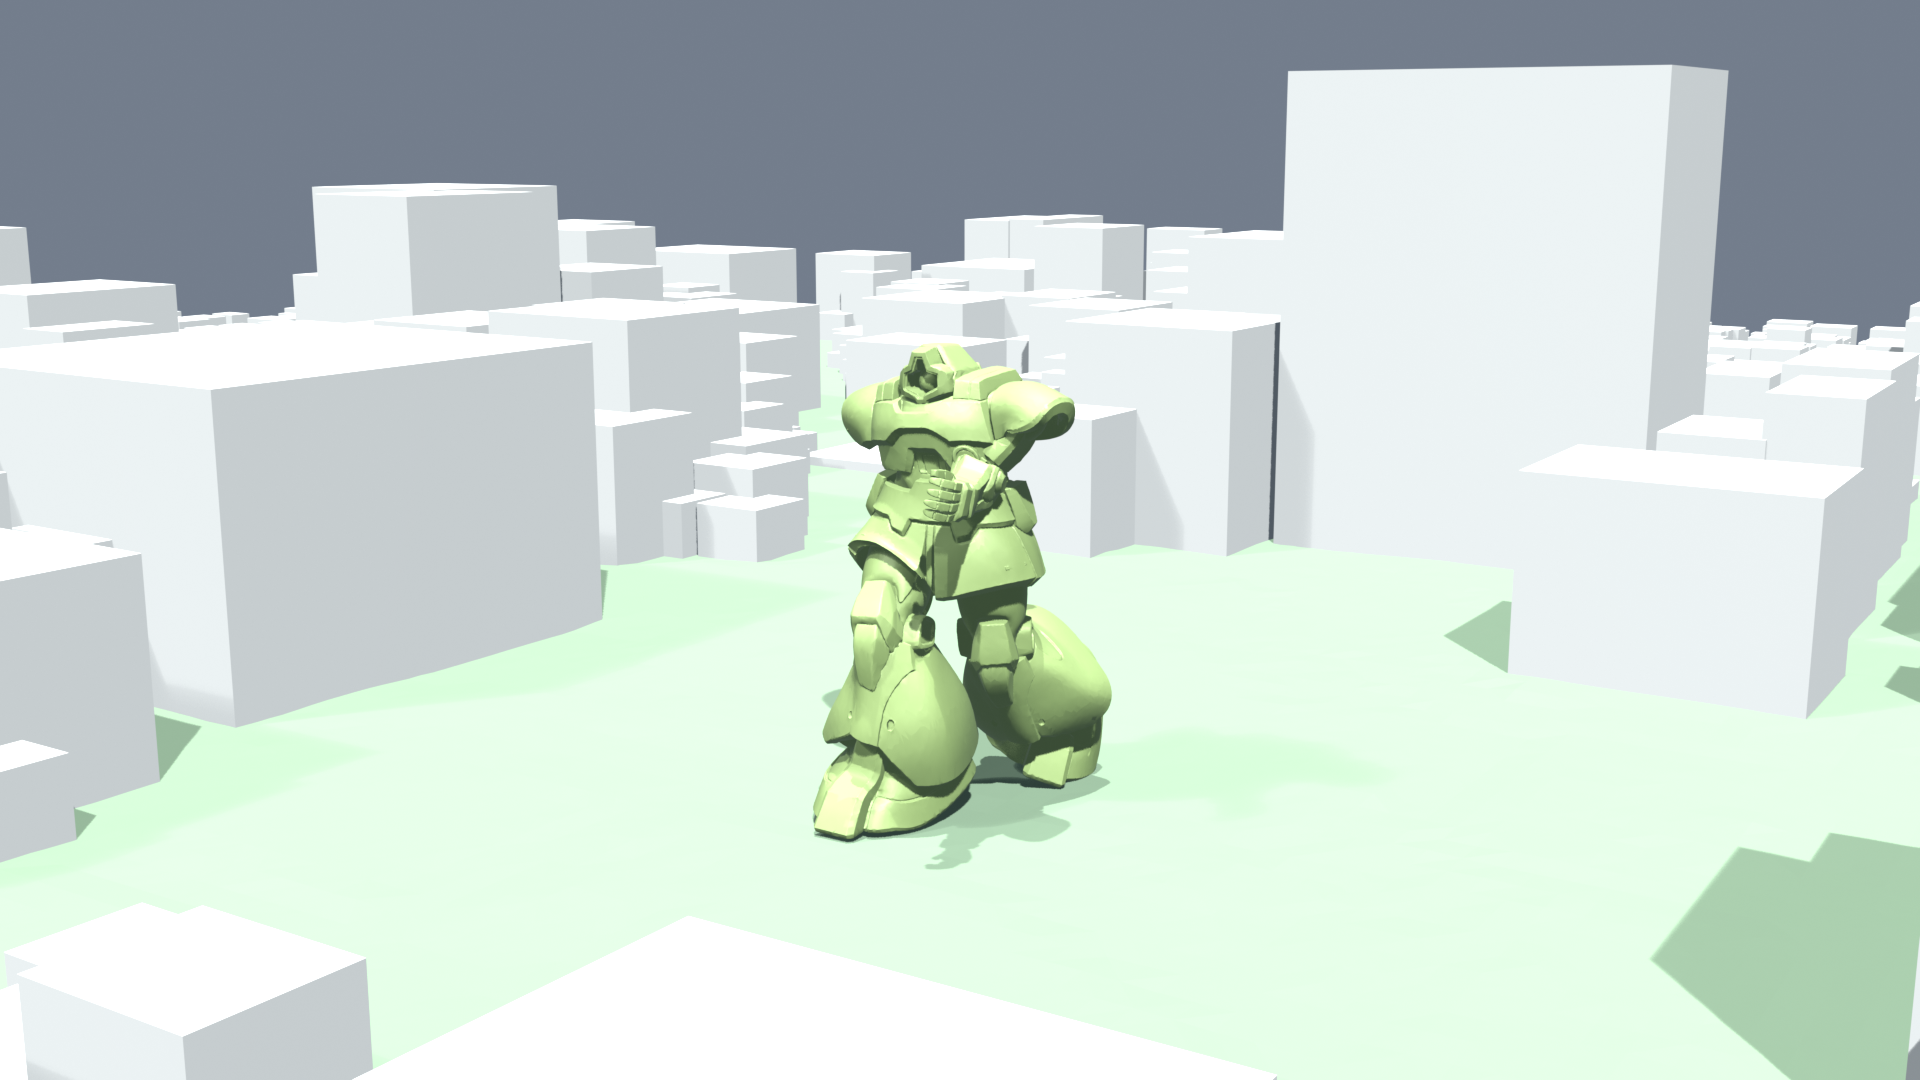
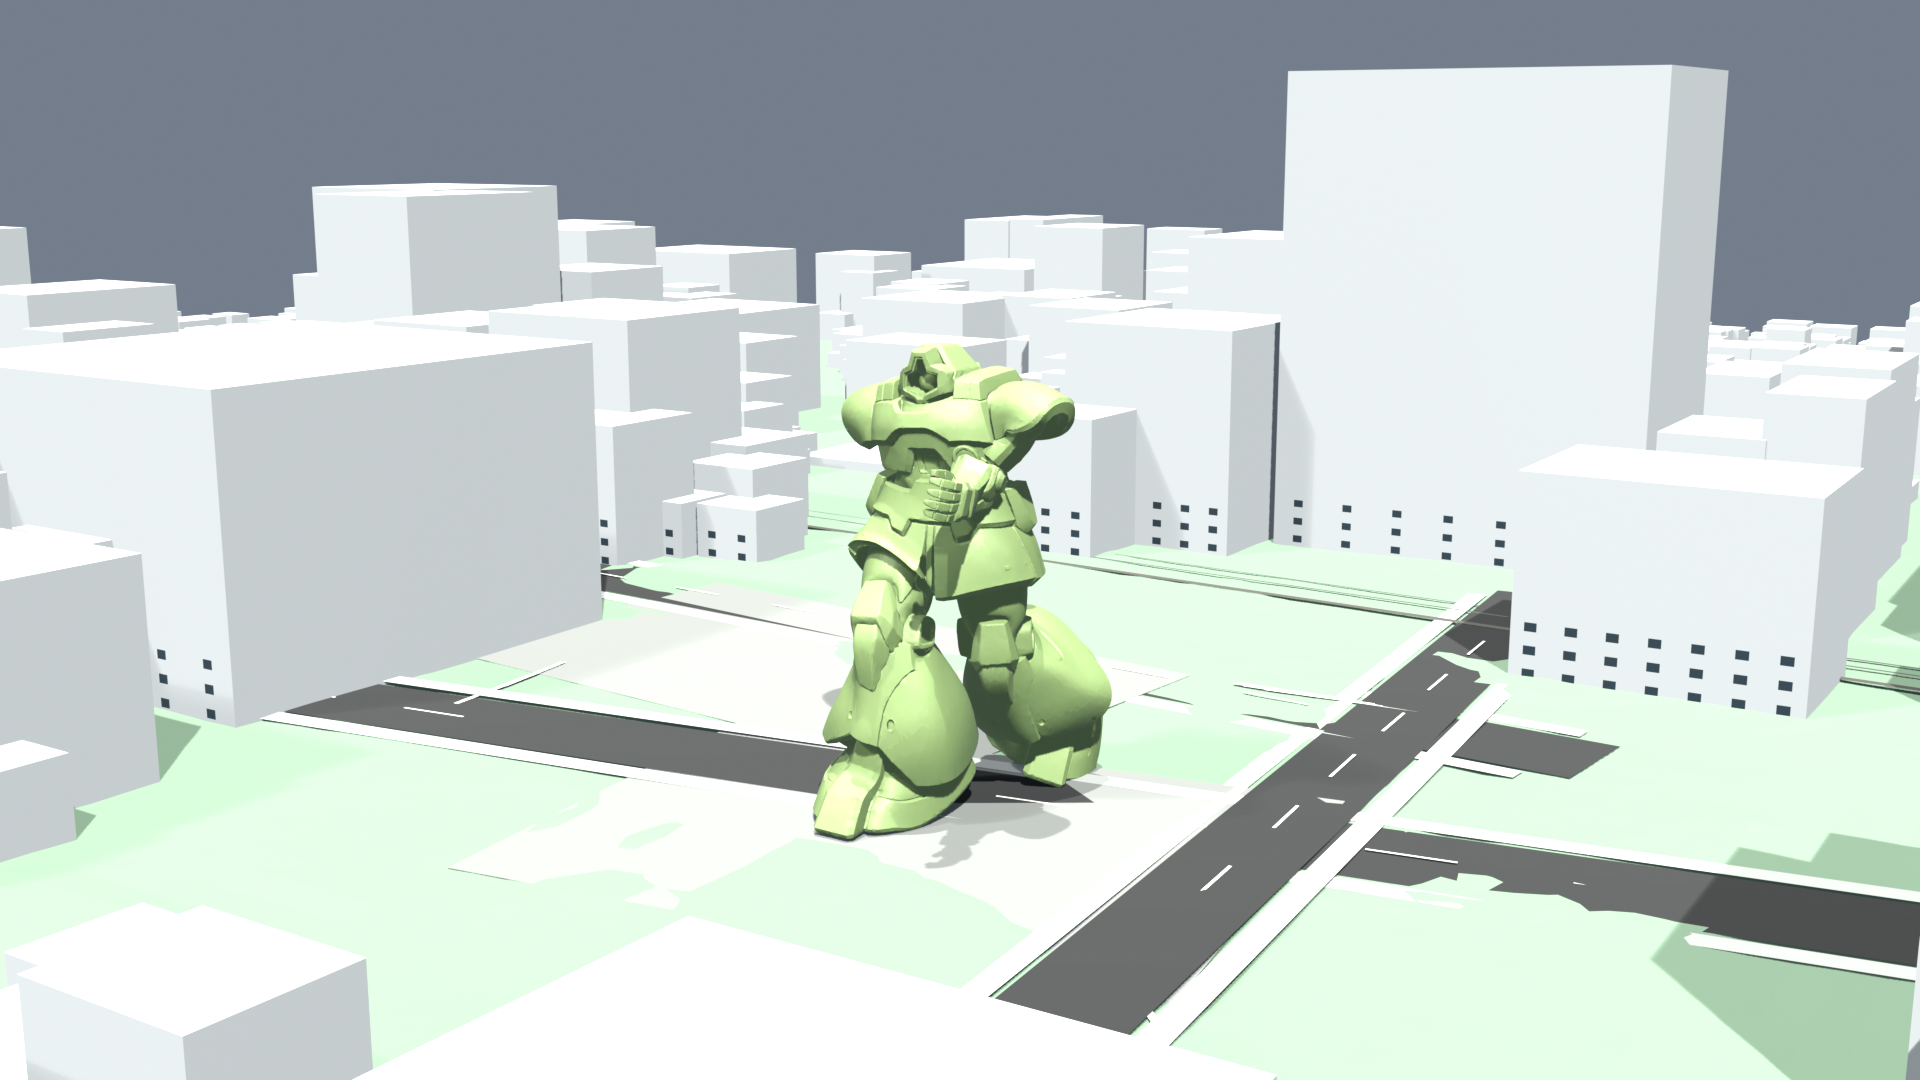
feat: add procedural Hon-Atsugi street detail

diff --git a/projects/AtsugiMechaCity/render_hon_atsugi_station_from_plateau.py b/projects/AtsugiMechaCity/render_hon_atsugi_station_from_plateau.py
@@ -399,6 +399,211 @@ def add_building_box(name, box, material):
     return add_mesh_object(name, vertices, faces, material)
 
 
+def rotated_rect_points(center, length, width, angle_rad):
+    cx, cy = center
+    along = mathutils.Vector((math.cos(angle_rad), math.sin(angle_rad)))
+    across = mathutils.Vector((-math.sin(angle_rad), math.cos(angle_rad)))
+    half_l = length * 0.5
+    half_w = width * 0.5
+    return [
+        (cx - along.x * half_l - across.x * half_w, cy - along.y * half_l - across.y * half_w),
+        (cx + along.x * half_l - across.x * half_w, cy + along.y * half_l - across.y * half_w),
+        (cx + along.x * half_l + across.x * half_w, cy + along.y * half_l + across.y * half_w),
+        (cx - along.x * half_l + across.x * half_w, cy - along.y * half_l + across.y * half_w),
+    ]
+
+
+def add_rect_mesh(name, points, terrain_points, material, z_offset=0.2):
+    vertices = []
+    for x, y in points:
+        z, _dist = nearest_z(terrain_points, x, y)
+        vertices.append((x, y, z + z_offset))
+    return add_mesh_object(name, vertices, [(0, 1, 2, 3)], material)
+
+
+def add_rotated_rect(name, center, length, width, angle_rad, terrain_points, material, z_offset=0.2):
+    return add_rect_mesh(
+        name,
+        rotated_rect_points(center, length, width, angle_rad),
+        terrain_points,
+        material,
+        z_offset,
+    )
+
+
+def add_dashed_lane(name, center, length, angle_rad, terrain_points, material, z_offset=0.32):
+    cx, cy = center
+    along = mathutils.Vector((math.cos(angle_rad), math.sin(angle_rad)))
+    dash_length = 9.5
+    gap = 11.5
+    count = 0
+    cursor = -length * 0.5 + dash_length * 0.5
+    while cursor < length * 0.5:
+        dash_center = (cx + along.x * cursor, cy + along.y * cursor)
+        add_rotated_rect(
+            f"{name}_{count:02d}",
+            dash_center,
+            dash_length,
+            0.38,
+            angle_rad,
+            terrain_points,
+            material,
+            z_offset,
+        )
+        count += 1
+        cursor += dash_length + gap
+    return count
+
+
+def add_crosswalk(name, center, stripe_count, angle_rad, terrain_points, material, z_offset=0.34):
+    cx, cy = center
+    across = mathutils.Vector((-math.sin(angle_rad), math.cos(angle_rad)))
+    count = 0
+    spacing = 1.45
+    start = -(stripe_count - 1) * spacing * 0.5
+    for index in range(stripe_count):
+        stripe_center = (cx + across.x * (start + index * spacing), cy + across.y * (start + index * spacing))
+        add_rotated_rect(
+            f"{name}_{index:02d}",
+            stripe_center,
+            13.5,
+            0.72,
+            angle_rad + math.pi * 0.5,
+            terrain_points,
+            material,
+            z_offset,
+        )
+        count += 1
+    return count
+
+
+def add_station_detail_layers(terrain_points, station_z, mecha_z, mats):
+    stats = {"roads": 0, "sidewalks": 0, "lane_dashes": 0, "crosswalk_stripes": 0, "rail_strips": 0, "plaza_surfaces": 0}
+
+    plaza_specs = [
+        ((10, -52), 92, 54, math.radians(-6)),
+        ((62, -102), 78, 58, math.radians(8)),
+    ]
+    for index, spec in enumerate(plaza_specs):
+        add_rotated_rect(f"HonAtsugi_StationPlaza_{index:02d}", *spec, terrain_points, mats["plaza"], 0.18)
+        stats["plaza_surfaces"] += 1
+
+    road_specs = [
+        ((28, -92), 292, 15.5, math.radians(8)),
+        ((92, -62), 218, 13.0, math.radians(95)),
+        ((-18, -28), 268, 17.0, math.radians(-4)),
+        ((132, -146), 210, 12.5, math.radians(42)),
+    ]
+    for index, (center, length, width, angle) in enumerate(road_specs):
+        add_rotated_rect(f"HonAtsugi_EnhancedRoad_{index:02d}", center, length, width, angle, terrain_points, mats["road"], 0.24)
+        stats["roads"] += 1
+        along = mathutils.Vector((math.cos(angle), math.sin(angle)))
+        across = mathutils.Vector((-math.sin(angle), math.cos(angle)))
+        for side in (-1, 1):
+            sidewalk_center = (
+                center[0] + across.x * side * (width * 0.5 + 2.2),
+                center[1] + across.y * side * (width * 0.5 + 2.2),
+            )
+            add_rotated_rect(
+                f"HonAtsugi_Sidewalk_{index:02d}_{side:+d}",
+                sidewalk_center,
+                length * 0.96,
+                3.0,
+                angle,
+                terrain_points,
+                mats["sidewalk"],
+                0.27,
+            )
+            stats["sidewalks"] += 1
+        stats["lane_dashes"] += add_dashed_lane(
+            f"HonAtsugi_LaneDash_{index:02d}",
+            (center[0] + along.x * 2.0, center[1] + along.y * 2.0),
+            length * 0.78,
+            angle,
+            terrain_points,
+            mats["line"],
+        )
+
+    crosswalks = [
+        ((-18, -82), 8, math.radians(8)),
+        ((78, -30), 9, math.radians(95)),
+        ((98, -122), 8, math.radians(42)),
+    ]
+    for index, spec in enumerate(crosswalks):
+        stats["crosswalk_stripes"] += add_crosswalk(f"HonAtsugi_Crosswalk_{index:02d}", *spec, terrain_points, mats["line"])
+
+    rail_specs = [
+        ((-18, 34), 360, 0.62, math.radians(-3)),
+        ((-18, 39), 360, 0.62, math.radians(-3)),
+        ((-18, 26), 360, 1.55, math.radians(-3)),
+    ]
+    for index, (center, length, width, angle) in enumerate(rail_specs):
+        mat = mats["rail"] if index < 2 else mats["rail_bed"]
+        add_rotated_rect(f"HonAtsugi_Rail_{index:02d}", center, length, width, angle, terrain_points, mat, 0.3)
+        stats["rail_strips"] += 1
+
+    return stats
+
+
+def add_facade_details(building_boxes, mats):
+    window_vertices = []
+    window_faces = []
+    sign_vertices = []
+    sign_faces = []
+    sorted_boxes = sorted(
+        building_boxes,
+        key=lambda box: math.hypot(((box[0] + box[1]) * 0.5) - MECHA_OFFSET[0], ((box[2] + box[3]) * 0.5) - MECHA_OFFSET[1]),
+    )
+    for box_index, box in enumerate(sorted_boxes[:170]):
+        min_x, max_x, min_y, max_y, min_z, max_z = box
+        width_x = max_x - min_x
+        width_y = max_y - min_y
+        height = max_z - min_z
+        if height < 7.0:
+            continue
+        floors = min(8, max(1, int((height - 3.0) / 3.3)))
+        if width_x >= 7.5:
+            cols = min(7, max(2, int(width_x / 5.2)))
+            for side_y, normal in ((min_y - 0.035, -1), (max_y + 0.035, 1)):
+                for floor in range(floors):
+                    z = min_z + 3.0 + floor * 3.25
+                    for col in range(cols):
+                        x = min_x + (col + 0.5) * width_x / cols
+                        w = min(1.7, width_x / cols * 0.46)
+                        h = 1.25
+                        start = len(window_vertices)
+                        window_vertices.extend([
+                            (x - w * 0.5, side_y, z - h * 0.5),
+                            (x + w * 0.5, side_y, z - h * 0.5),
+                            (x + w * 0.5, side_y, z + h * 0.5),
+                            (x - w * 0.5, side_y, z + h * 0.5),
+                        ])
+                        window_faces.append((start, start + 1, start + 2, start + 3) if normal > 0 else (start + 3, start + 2, start + 1, start))
+        if box_index < 26 and width_x >= 8.0:
+            z = min_z + min(4.2, max(2.8, height * 0.28))
+            side_y = min_y - 0.055
+            x = (min_x + max_x) * 0.5
+            w = min(5.8, width_x * 0.52)
+            h = 1.05
+            start = len(sign_vertices)
+            sign_vertices.extend([
+                (x - w * 0.5, side_y, z - h * 0.5),
+                (x + w * 0.5, side_y, z - h * 0.5),
+                (x + w * 0.5, side_y, z + h * 0.5),
+                (x - w * 0.5, side_y, z + h * 0.5),
+            ])
+            sign_faces.append((start + 3, start + 2, start + 1, start))
+
+    window_obj = add_mesh_object("HonAtsugi_Facade_Windows", window_vertices, window_faces, mats["window"]) if window_faces else None
+    sign_obj = add_mesh_object("HonAtsugi_Facade_Signs", sign_vertices, sign_faces, mats["sign"]) if sign_faces else None
+    return {
+        "window_panels": len(window_faces),
+        "sign_panels": len(sign_faces),
+        "window_object": window_obj.name if window_obj else None,
+        "sign_object": sign_obj.name if sign_obj else None,
+    }
+
+
 def box_intersects_clearance(box, center, radius):
     min_x, max_x, min_y, max_y, _min_z, _max_z = box
     closest_x = min(max(center[0], min_x), max_x)
@@ -509,6 +714,16 @@ def main():
     road_mat = make_principled_material("HonAtsugi_Road_Asphalt", (0.035, 0.036, 0.034, 1.0), 0.96)
     bldg_mat = make_principled_material("HonAtsugi_Building_Grey", (0.48, 0.50, 0.49, 1.0), 0.82)
     mecha_mat = make_principled_material("HonAtsugi_Mecha_Posed_Olive", (0.28, 0.39, 0.16, 1.0), 0.52, 0.12)
+    detail_mats = {
+        "road": make_principled_material("HonAtsugi_Enhanced_Asphalt", (0.025, 0.026, 0.025, 1.0), 0.94),
+        "sidewalk": make_principled_material("HonAtsugi_Sidewalk_Concrete", (0.42, 0.43, 0.40, 1.0), 0.9),
+        "line": make_principled_material("HonAtsugi_Road_WhiteLine", (0.88, 0.86, 0.76, 1.0), 0.62),
+        "plaza": make_principled_material("HonAtsugi_Station_Plaza_Paving", (0.22, 0.23, 0.21, 1.0), 0.86),
+        "rail": make_principled_material("HonAtsugi_Rail_Steel", (0.12, 0.12, 0.11, 1.0), 0.48, 0.35),
+        "rail_bed": make_principled_material("HonAtsugi_Rail_Bed", (0.08, 0.075, 0.065, 1.0), 0.96),
+        "window": make_principled_material("HonAtsugi_Dark_Window_Glass", (0.035, 0.055, 0.065, 1.0), 0.28, 0.05),
+        "sign": make_principled_material("HonAtsugi_Sign_Panels", (0.58, 0.08, 0.055, 1.0), 0.5),
+    }
 
     terrain = add_mesh_object("HonAtsugi_Terrain", payload["terrain_vertices"], payload["terrain_faces"], terrain_mat)
     roads = add_mesh_object("HonAtsugi_Roads", payload["road_vertices"], payload["road_faces"], road_mat)
@@ -525,6 +740,8 @@ def main():
             continue
         building_boxes.append(box)
     buildings = [add_building_box(f"HonAtsugi_Bldg_{index:04d}", box, bldg_mat) for index, box in enumerate(building_boxes)]
+    detail_stats = add_station_detail_layers(terrain_points, station_z, mecha_z, detail_mats)
+    facade_stats = add_facade_details(building_boxes, detail_mats)
 
     existing_mecha = bpy.data.objects.get(MECHA_NAME)
     if existing_mecha:
@@ -604,6 +821,10 @@ def main():
             "rendered_count": len(buildings),
             "skipped_for_mecha_clearance": skipped_for_mecha,
             "mecha_clearance_radius": MECHA_CLEARANCE_RADIUS,
+        },
+        "procedural_details": {
+            "station_layers": detail_stats,
+            "facades": facade_stats,
         },
         "station_terrain_z": round(station_z, 6),
         "station_terrain_nearest_distance": round(station_z_distance, 6),
